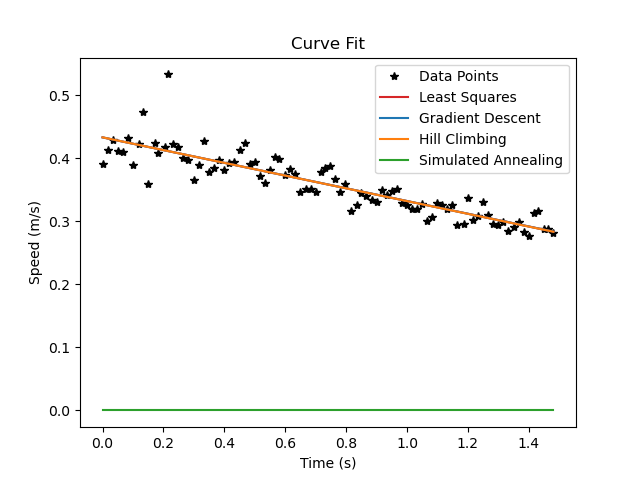
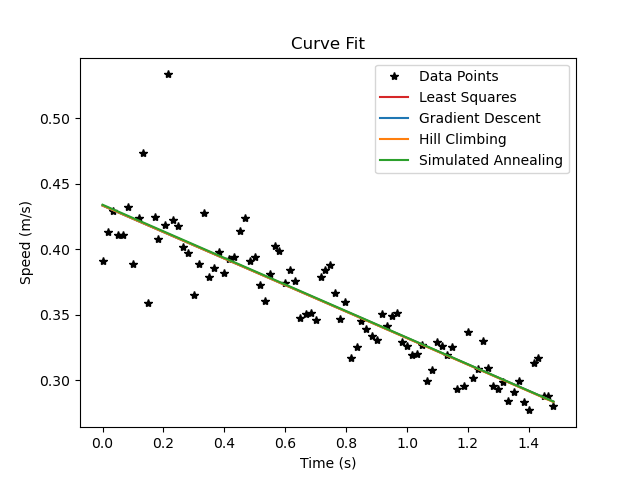
update files

diff --git a/lab3/ball_fit.py b/lab3/ball_fit.py
@@ -122,7 +122,11 @@ def fit_simulated_annealing():
         :rtype: numpy.array.
         """
         # Todo: Implement
-        pass  # Remove pass after implementing
+        angle = random.uniform(-pi, pi)
+        x = theta[0] + cos(angle)*delta
+        y = theta[1] + sin(angle)*delta
+        neighbor = np.array([x, y])
+        return neighbor
 
     def schedule(i):
         """
@@ -134,7 +138,8 @@ def fit_simulated_annealing():
         :rtype: float.
         """
         # Todo: Implement
-        pass  # Remove pass after implementing
+        temperature = temperature0 / (1 + beta*i**2)
+        return temperature
 
     theta, history = simulated_annealing(cost_function, random_neighbor, schedule, np.array([0.0, 0.0]), 1.0e-10, 5000)
     return theta, history
